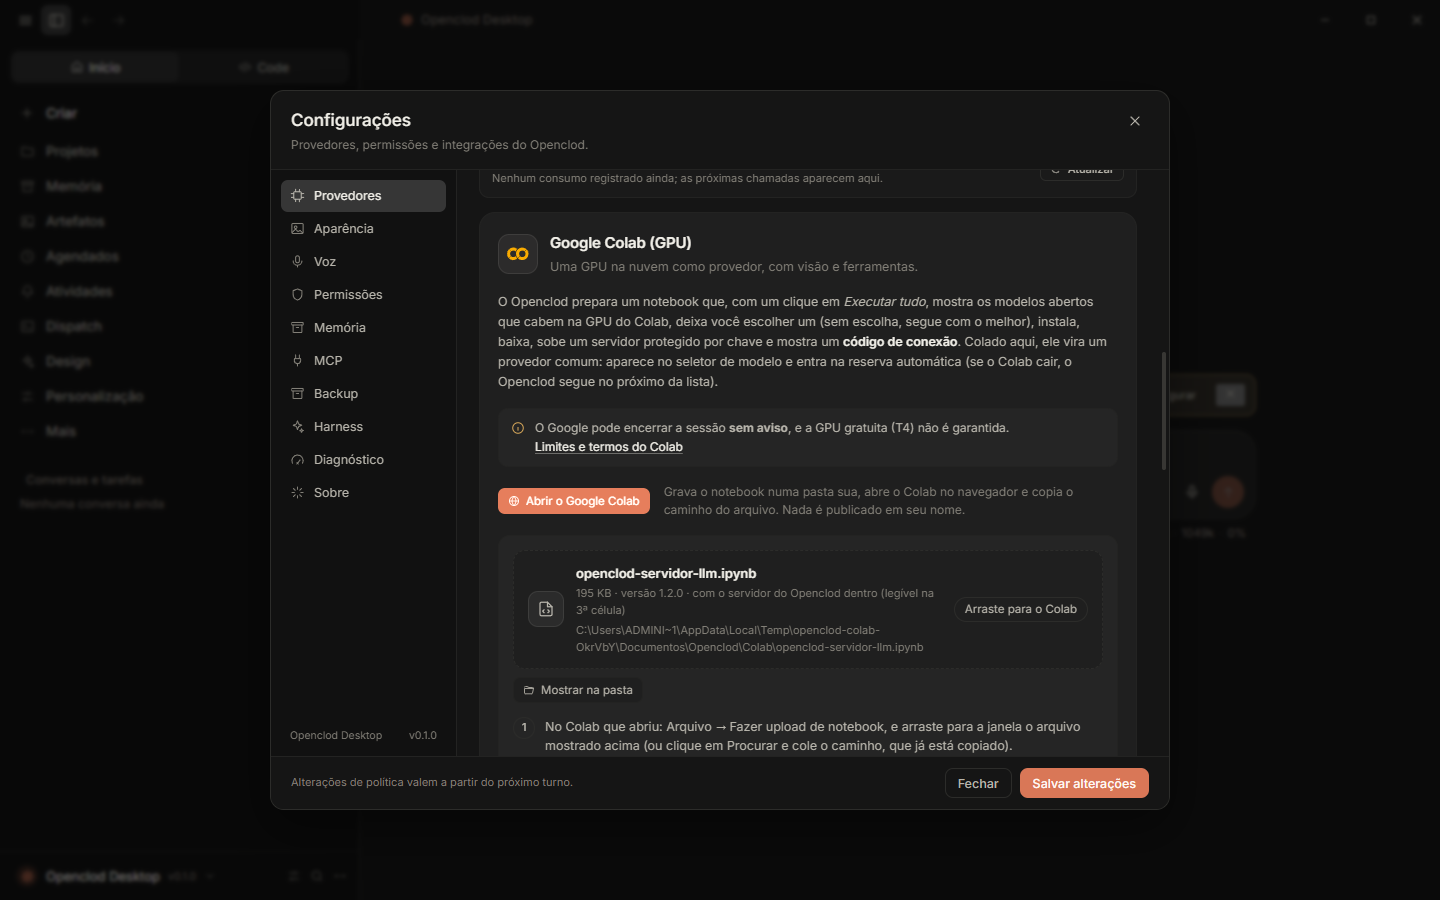
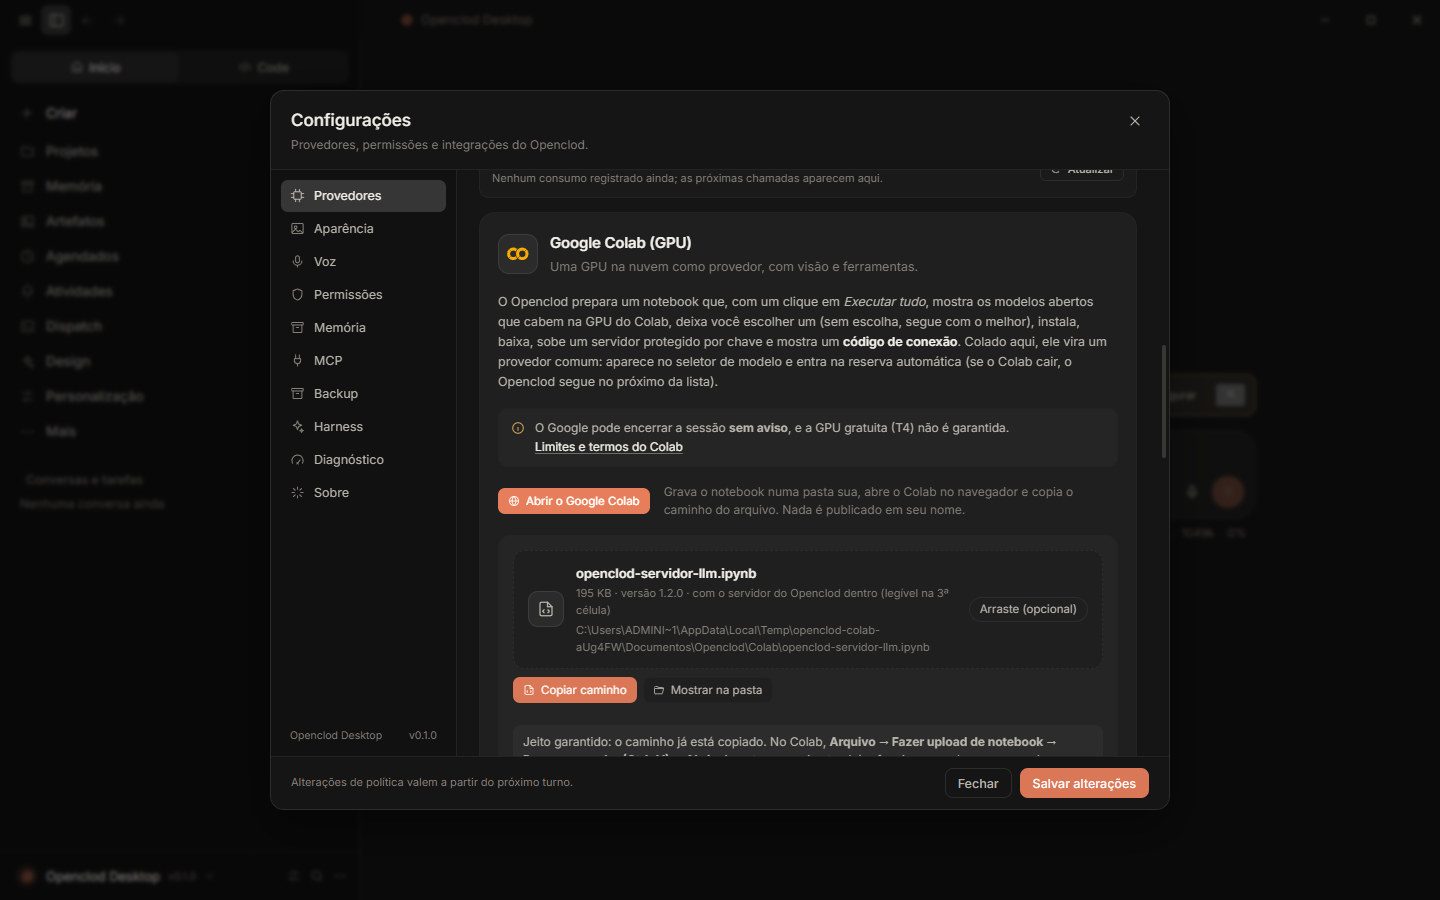
feat: Colab card — entrega robusta do notebook (copiar caminho + colar)
- ColabCard.tsx: botao Copiar caminho, dica em destaque com o metodo garantido (Fazer upload -> Procurar -> colar) e o arrastar como opcional.

- src/main/colab.ts: o passo 1 lidera pelo caminho colado (arrastar vira nota de rodape).

- providers.css: estilo da dica (.colab-file-hint).

- tests/colab-service.test.ts e scripts/ui-colab.cjs: asserçoes atualizadas (colar e o principal; conferem o botao e a dica); E2E validou no app real.

- Prints/colab-2026-10-27/look-02,03: capturas regeneradas com o card novo.

Changed region(s): [[0.3438, 0.7156, 0.75, 0.84], [0.6562, 0.6533, 0.75, 0.6844], [0.4062, 0.6533, 0.4375, 0.6844]]

diff --git a/src/renderer/src/components/ColabCard.tsx b/src/renderer/src/components/ColabCard.tsx
@@ -64,6 +64,7 @@ export function ColabCard({ provider, onChanged, onOpenProvider }: ColabCardProp
   const [reveal, setReveal] = useState(false)
   const [confirmingRemoval, setConfirmingRemoval] = useState(false)
   const [testing, setTesting] = useState(false)
+  const [copiedPath, setCopiedPath] = useState(false)
   const [limitsOpen, setLimitsOpen] = useState(false)
   const limitsRef = useRef<HTMLDetailsElement>(null)
   const lastState = useRef<string>('')
@@ -114,6 +115,19 @@ export function ColabCard({ provider, onChanged, onOpenProvider }: ColabCardProp
       if (!shown) setPrepareError('O arquivo do notebook não está mais na pasta: clique em “Abrir o Google Colab” de novo.')
     } catch (err) {
       setPrepareError(`Não consegui mostrar a pasta: ${errorMessage(err)}`)
+    }
+  }
+
+  // O método garantido de levar o notebook ao Colab: copiar o caminho e colar em "Fazer upload → Procurar".
+  const copyPath = async (): Promise<void> => {
+    if (!prepared) return
+    try {
+      await navigator.clipboard.writeText(prepared.path)
+      setCopiedPath(true)
+      window.setTimeout(() => setCopiedPath(false), 2000)
+    } catch {
+      // O caminho continua visível no card para o usuário copiar à mão.
+      setCopiedPath(false)
     }
   }
 
@@ -283,11 +297,11 @@ export function ColabCard({ provider, onChanged, onOpenProvider }: ColabCardProp
             <div
               className="colab-file"
               role="group"
-              aria-label={`Arquivo ${prepared.fileName}: arraste para dentro do Colab`}
-              title="Arraste este arquivo para dentro do Colab"
+              aria-label={`Arquivo ${prepared.fileName}`}
+              title="Você pode arrastar este arquivo para o Colab (opcional) ou usar “Copiar caminho” e colar no upload"
               draggable
               onDragStart={(event) => {
-                // Cancels the browser's own drag so the app can start the native one: a real file the Colab page accepts.
+                // Arrastar para dentro do Colab é opcional e instável (app→navegador); o jeito garantido é o caminho colado.
                 event.preventDefault()
                 window.forja.app.colabStartDrag()
               }}
@@ -302,14 +316,20 @@ export function ColabCard({ provider, onChanged, onOpenProvider }: ColabCardProp
                 </small>
                 <small className="colab-file-path">{prepared.path}</small>
               </span>
-              <span className="colab-file-grab">Arraste para o Colab</span>
+              <span className="colab-file-grab">Arraste (opcional)</span>
             </div>
             <div className="colab-actions">
+              <button type="button" className="btn small primary colab-copy-path" onClick={() => void copyPath()}>
+                <Icon name="fileCode" size={12} /> {copiedPath ? 'Caminho copiado!' : 'Copiar caminho'}
+              </button>
               <button type="button" className="btn small subtle colab-reveal-file" onClick={() => void revealNotebook()}>
                 <Icon name="folderOpen" size={12} /> Mostrar na pasta
               </button>
             </div>
           </div>
+          <p className="colab-file-hint">
+            Jeito garantido: o caminho já está copiado. No Colab, <strong>Arquivo → Fazer upload de notebook → Procurar → colar (Ctrl+V) → Abrir</strong>. Arrastar o arquivo também funciona em alguns navegadores, mas pode falhar — se falhar, use o caminho colado.
+          </p>
           <ol>
             {prepared.steps.map((step) => (
               <li key={step}>{step}</li>

diff --git a/src/main/colab.ts b/src/main/colab.ts
@@ -53,7 +53,7 @@ export interface ColabServiceDeps {
 }
 
 const STEPS = [
-  'No Colab que abriu: Arquivo → Fazer upload de notebook, e arraste para a janela o arquivo mostrado acima (ou clique em Procurar e cole o caminho, que já está copiado).',
+  'No Colab que abriu: Arquivo → Fazer upload de notebook → Procurar → cole o caminho (Ctrl+V, ele já está copiado) → Abrir. (Arrastar o arquivo para a janela também funciona em alguns navegadores, mas o colar é o jeito garantido.)',
   'Ambiente de execução → Executar tudo (Ctrl+F9). O notebook já pede uma GPU; se o Colab mostrar um aviso de segurança sobre o notebook, confirme (o código está legível na 3ª célula).',
   'Espere: na primeira vez leva de 5 a 15 minutos (baixa o motor e o modelo). O progresso aparece no próprio notebook. Na etapa 2 ele para até 2 minutos numa caixa de seleção para você escolher o modelo (botão "Usar este modelo"); se você não escolher, segue com o automático.',
   'No fim aparece o CÓDIGO DE CONEXÃO. Clique em Copiar.',

diff --git a/tests/colab-service.test.ts b/tests/colab-service.test.ts
@@ -186,9 +186,10 @@ describe('the file the user drags into Colab', () => {
     expect(calls).toEqual([{ kind: 'reveal', target: info.path }])
   })
 
-  it('tells the user to drag the file in the first step', async () => {
+  it('leads the first step with the reliable paste-the-path method (drag is only optional)', async () => {
     const info = await service().prepare()
-    expect(info.steps[0]).toMatch(/arraste/i)
+    expect(info.steps[0]).toMatch(/Fazer upload de notebook/)
+    expect(info.steps[0]).toMatch(/cole o caminho/i)
   })
 })
 

diff --git a/src/renderer/src/components/providers.css b/src/renderer/src/components/providers.css
@@ -377,6 +377,21 @@
   line-height: 1.5;
 }
 
+/* "Jeito garantido": o caminho colado. Uma faixa discreta logo abaixo do arquivo. */
+.colab-file-hint {
+  margin: 8px 0 0;
+  padding: 8px 10px;
+  border-radius: 8px;
+  background: var(--surface-2, rgba(127, 127, 127, 0.08));
+  color: var(--text-2);
+  font-size: 12px;
+  line-height: 1.5;
+}
+
+.colab-file-hint strong {
+  color: var(--text-1);
+}
+
 /* O notebook gravado: o arquivo para arrastar e os passos */
 .colab-steps {
   display: grid;
